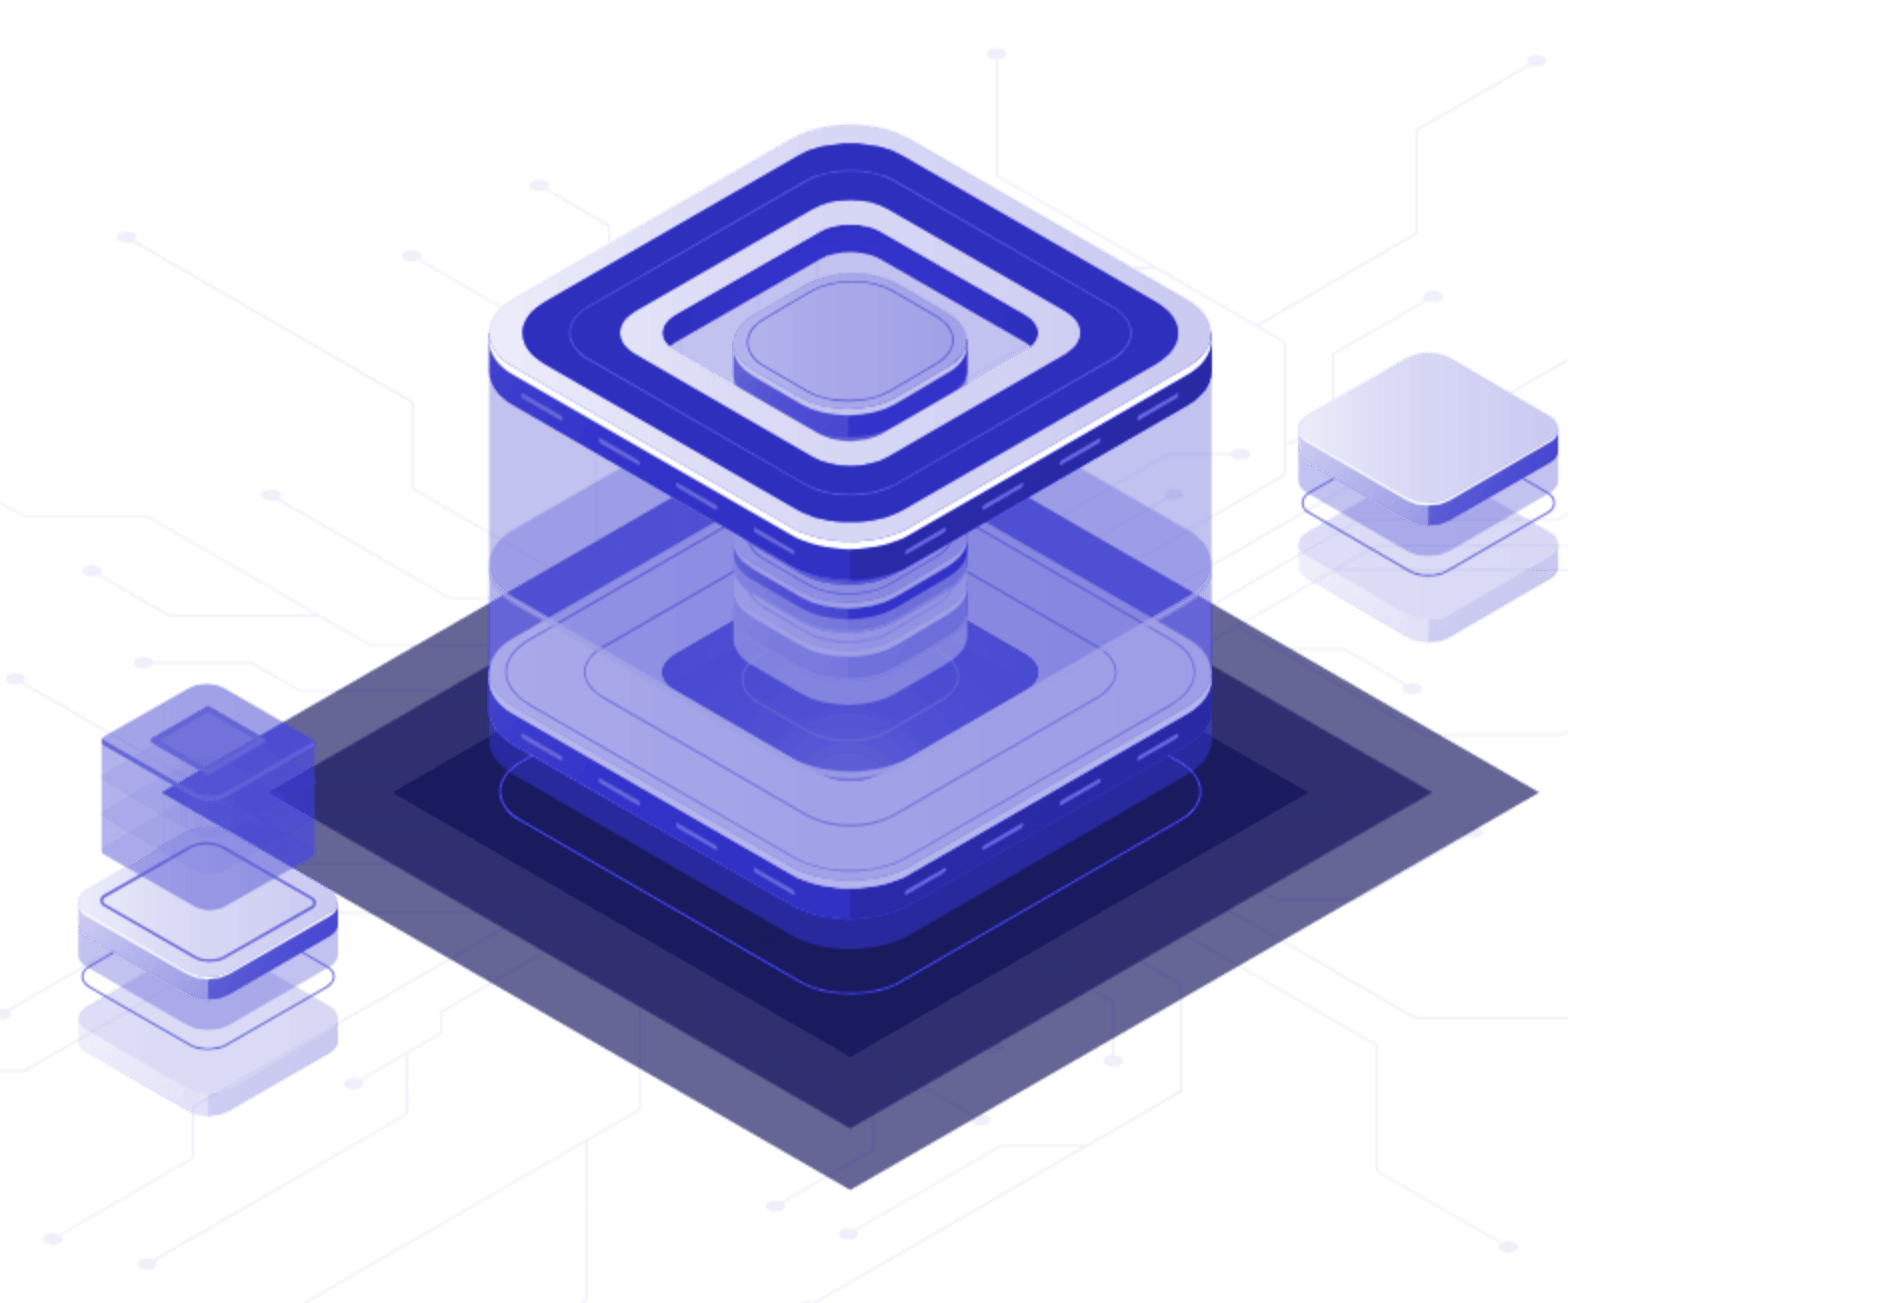
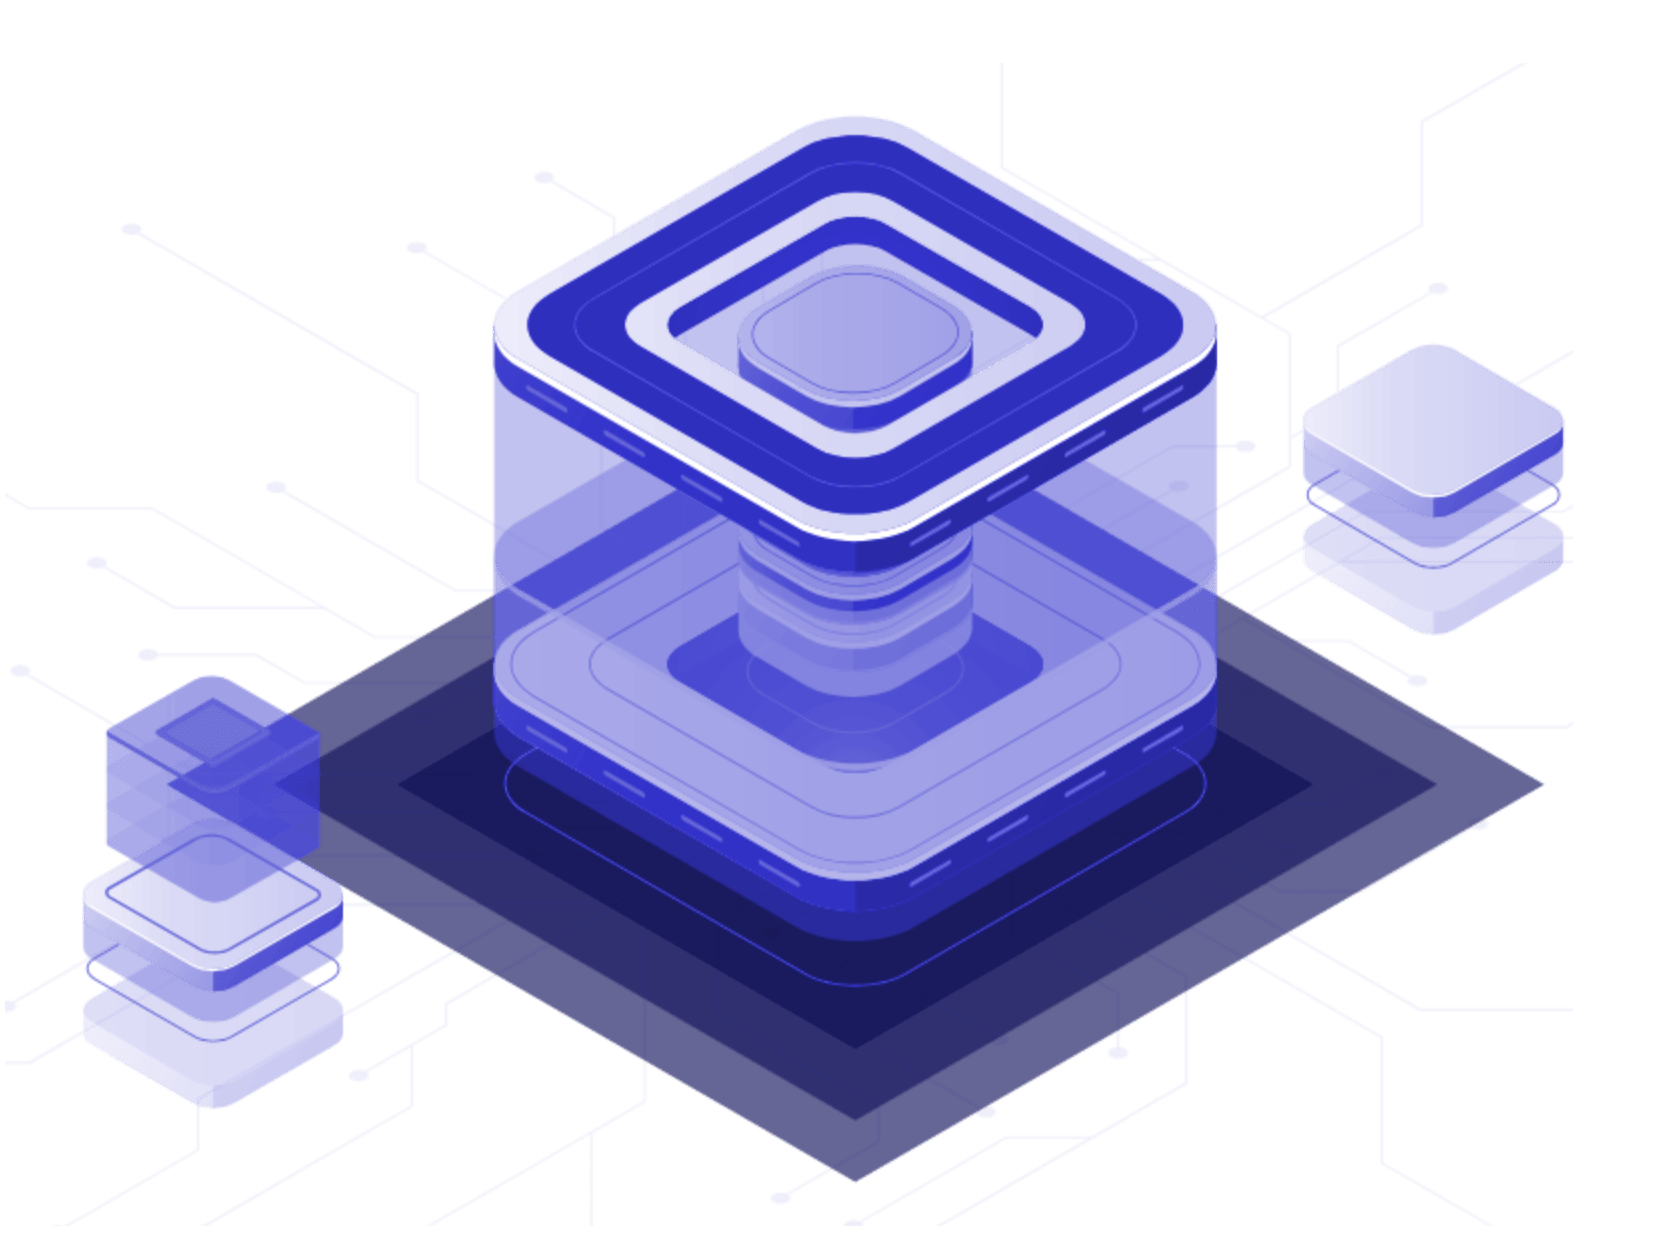
Deployed b651538 with MkDocs version: 1.6.1

diff --git a/index.html b/index.html
@@ -393,7 +393,7 @@
         .mdx-hero__image {
             order: 1;
             transform: translateX(4rem);
-            width: 38rem;
+            width: 65rem;
             display: flex;
             align-items: center;
         }
@@ -443,7 +443,7 @@
                 <p>A high-performance RISC-V processor on FPGA. Bridging the gap between beginner-friendly education and advanced hardware architecture.</p>
 
                 <a href="uarch/" class="md-button md-button--primary">
-                    Quick Start
+                    Learn More
                 </a>
 
                 <a href="https://github.com/mendax1234/hydra-v" class="md-button">
